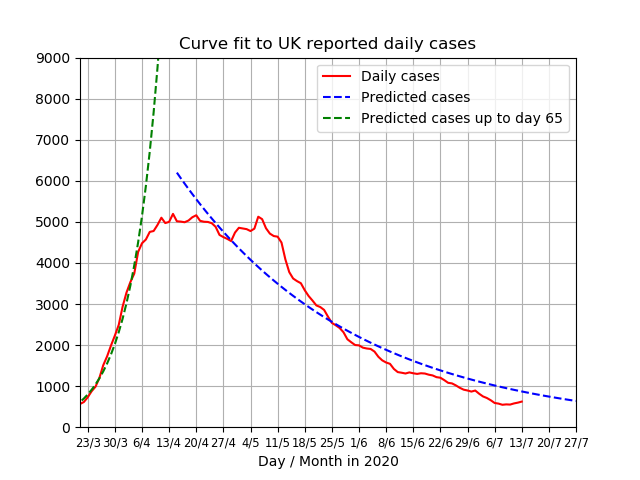
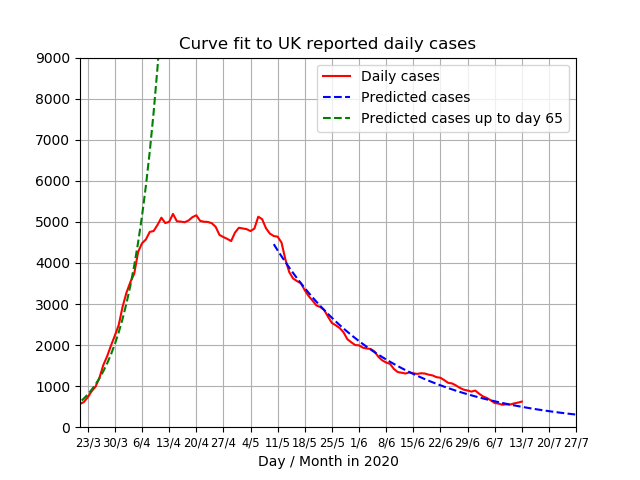
Daily run

diff --git a/src/curvefit.py b/src/curvefit.py
@@ -37,7 +37,7 @@ bl_cases_param = [0.69071121, 1.14232115]
 # Day 71, peak of deaths (and 6 days after peak of new cases)
 bl_deaths_param = [0.05535172, 1.14603189]
 # start day for line fit
-cases_ln_start = 75
+cases_ln_start = 100
 deaths_ln_start = 75
 
 # Test exponential function with coefficients as parameters
@@ -192,7 +192,7 @@ def main():
                                                         ln_predicted_days)
     print(bl_cases_param)
     bl_cases = (bl_cases_param[0]*bl_cases_param[1]**np.array(predicted_days))
-    print("<h3>Fitcoefficients for new cases</h3>",
+    print("<h3>Fit coefficients for new cases</h3>",
           file=f_out)
     print(cases_param, file=f_out)
     print("<h4>Standard deviation errors on the parameters</h4>", file=f_out)

diff --git a/README.md b/README.md
@@ -33,10 +33,10 @@ tests, rather than just Pillar 1 has made this approach less accurate.
 
 Output Details
 --------------
-<h3>Fitcoefficients for new cases</h3>
-[3.31434559e+04 9.78183748e-01]
+<h3>Fit coefficients for new cases</h3>
+[1.42064743e+05 9.66305179e-01]
 <h4>Standard deviation errors on the parameters</h4>
-[2.91881631e+03 8.76594556e-04]
+[8.75944960e+03 5.17922195e-04]
 <h3>Fit coefficients for daily deaths</h3>
 [8.72255925e+03 9.72060961e-01]
 <h4>Standard deviation errors on the parameters</h4>
@@ -45,4 +45,4 @@ Output Details
 4 13%
 <h4>Average Error</h4>
 65.48
-<br /><br />Last updated on 2020-07-14 11:01:03.581014
+<br /><br />Last updated on 2020-07-14 11:08:28.072392

diff --git a/out/fit.md b/out/fit.md
@@ -1,7 +1,7 @@
-<h3>Fitcoefficients for new cases</h3>
-[3.31434559e+04 9.78183748e-01]
+<h3>Fit coefficients for new cases</h3>
+[1.42064743e+05 9.66305179e-01]
 <h4>Standard deviation errors on the parameters</h4>
-[2.91881631e+03 8.76594556e-04]
+[8.75944960e+03 5.17922195e-04]
 <h3>Fit coefficients for daily deaths</h3>
 [8.72255925e+03 9.72060961e-01]
 <h4>Standard deviation errors on the parameters</h4>
@@ -10,4 +10,4 @@
 4 13%
 <h4>Average Error</h4>
 65.48
-<br /><br />Last updated on 2020-07-14 11:01:03.581014
+<br /><br />Last updated on 2020-07-14 11:08:28.072392
